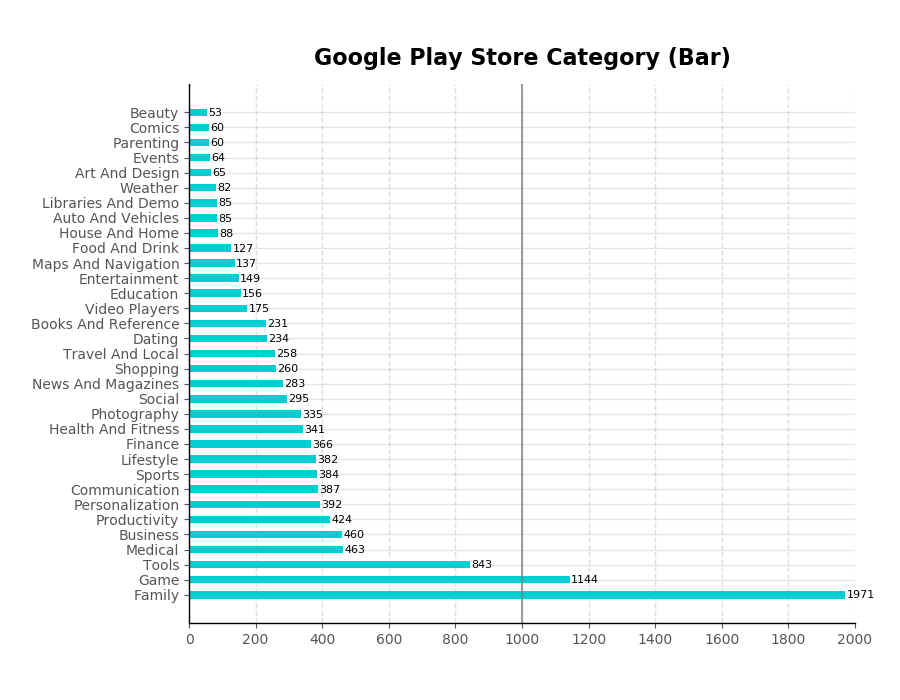
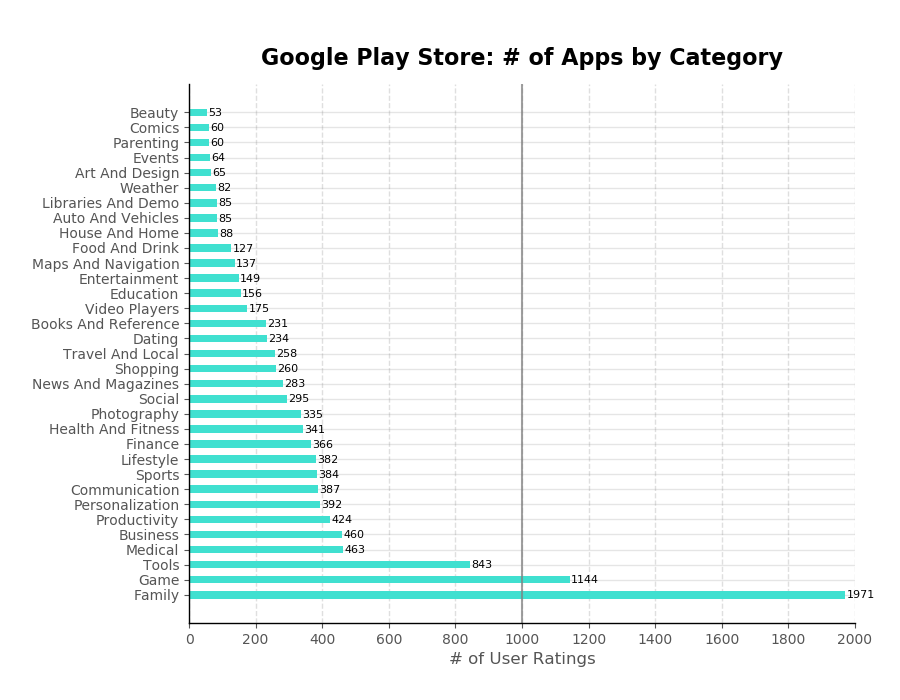
update 10/15/18

Changed region(s): [[0.1867, 0.15, 0.9333, 0.87], [0.28, 0.06, 0.8711, 0.12], [0.4978, 0.93, 0.6533, 0.96]]

diff --git a/Graphs/Google Play Store/play_store_graph_bars.py b/Graphs/Google Play Store/play_store_graph_bars.py
@@ -32,7 +32,6 @@ ratings = clean_data[['rating']]
 ratings = ratings.dropna()
 ratings.rating.value_counts()
 google_ratings = ratings[ratings['rating'] <= 5.0]
-x = ratings[ratings['rating'] > 5]
 
 def ratings_hist(df):
     # Histogram plot of Google Play Store Ratings
@@ -61,7 +60,6 @@ df_category = df_category.sort_values(['freq'], ascending=False)
 df_category['category'] = df_category.category.str.replace('_', ' ')
 df_category['category'] = df_category.category.str.title()
 df_category.head()
-df_category
 
 def google_category(df_category):
     # Bar chart of Google Play Store Categories
@@ -74,10 +72,10 @@ def google_category(df_category):
 
     rects = ax1.barh(y_pos, df_category['freq'],
                      align='center',
-                     height=0.5, color='darkturquoise')
+                     height=0.5, color='turquoise')
     plt.yticks(y_pos, list)
     ax1.set_xlim([0, 2000])
-    title = ax1.set_title('Google Play Store Category (Bar)', fontsize=16, fontweight='bold')
+    title = ax1.set_title('Google Play Store: # of Apps by Category', fontsize=16, fontweight='bold')
     title.set_position([.5, 1.02])
     ax1.xaxis.set_major_locator(MaxNLocator(12))
     ax1.xaxis.grid(True, linestyle='--', which='major',
@@ -91,8 +89,49 @@ def google_category(df_category):
         ax1.text(v+4, i-.25, str(v), color='black', size=8)
     plt.gca().spines['right'].set_visible(False)
     plt.gca().spines['top'].set_visible(False)
+    plt.xlabel('# of User Ratings')
 
     plt.savefig("\\Users\ghodg\Desktop\Projects\Python\Graphs\Google Play Store\Graph_outputs\\category_bar.png")
+
+
+# df for the Google Play Store average rating categories
+rating_category = clean_data[['category', 'rating']]
+rating_category.rating.value_counts()
+rating_average = rating_category.groupby('category')['rating'].mean().reset_index()
+df_average = rating_average.sort_values(['rating'], ascending=False)
+df_average['category'] = df_average.category.str.replace('_', ' ')
+df_average['category'] = df_average.category.str.title()
+df_average.head()
+
+
+def average_category(df_average):
+    # Bar chart of Google Play Store Categories
+    fig, ax1 = plt.subplots(figsize=(9, 7))
+    fig.subplots_adjust(left=0.21, right=0.95)
+    fig.canvas.set_window_title('Google Play Store Average Category Rating')
+
+    list = df_average['category']
+    y_pos = np.arange(len(list))
+    rects = ax1.barh(y_pos, df_average['rating'],
+                     align='center',
+                     height=0.5,
+                     color='tomato')
+    plt.yticks(y_pos, list)
+    ax1.set_xlim([0, 5])
+    title = ax1.set_title('Google Play Store: Average User Rating by Category', fontsize=16, fontweight='bold')
+    title.set_position([.5, 1.02])
+    ax1.xaxis.set_major_locator(MaxNLocator(12))
+    ax1.xaxis.grid(True, linestyle='--', which='major',
+                       color='grey', alpha=.25)
+
+    labels = df_average['rating']
+    for i, v in enumerate(labels):
+        ax1.text(v+0.05, i-.25, str(round(v, 2)), color='black', size=8, fontweight='bold')
+    plt.gca().spines['right'].set_visible(False)
+    plt.gca().spines['top'].set_visible(False)
+    plt.xlabel('Average User Rating')
+
+    plt.savefig("\\Users\ghodg\Desktop\Projects\Python\Graphs\Google Play Store\Graph_outputs\\average_category_bar.png")
 
 
 def type_stacked(clean_data):
@@ -132,4 +171,4 @@ ratings_hist(google_ratings)
 google_category(df_category)
 type_stacked(clean_data)
 content_stacked(clean_data)
-
+average_category(df_average)
